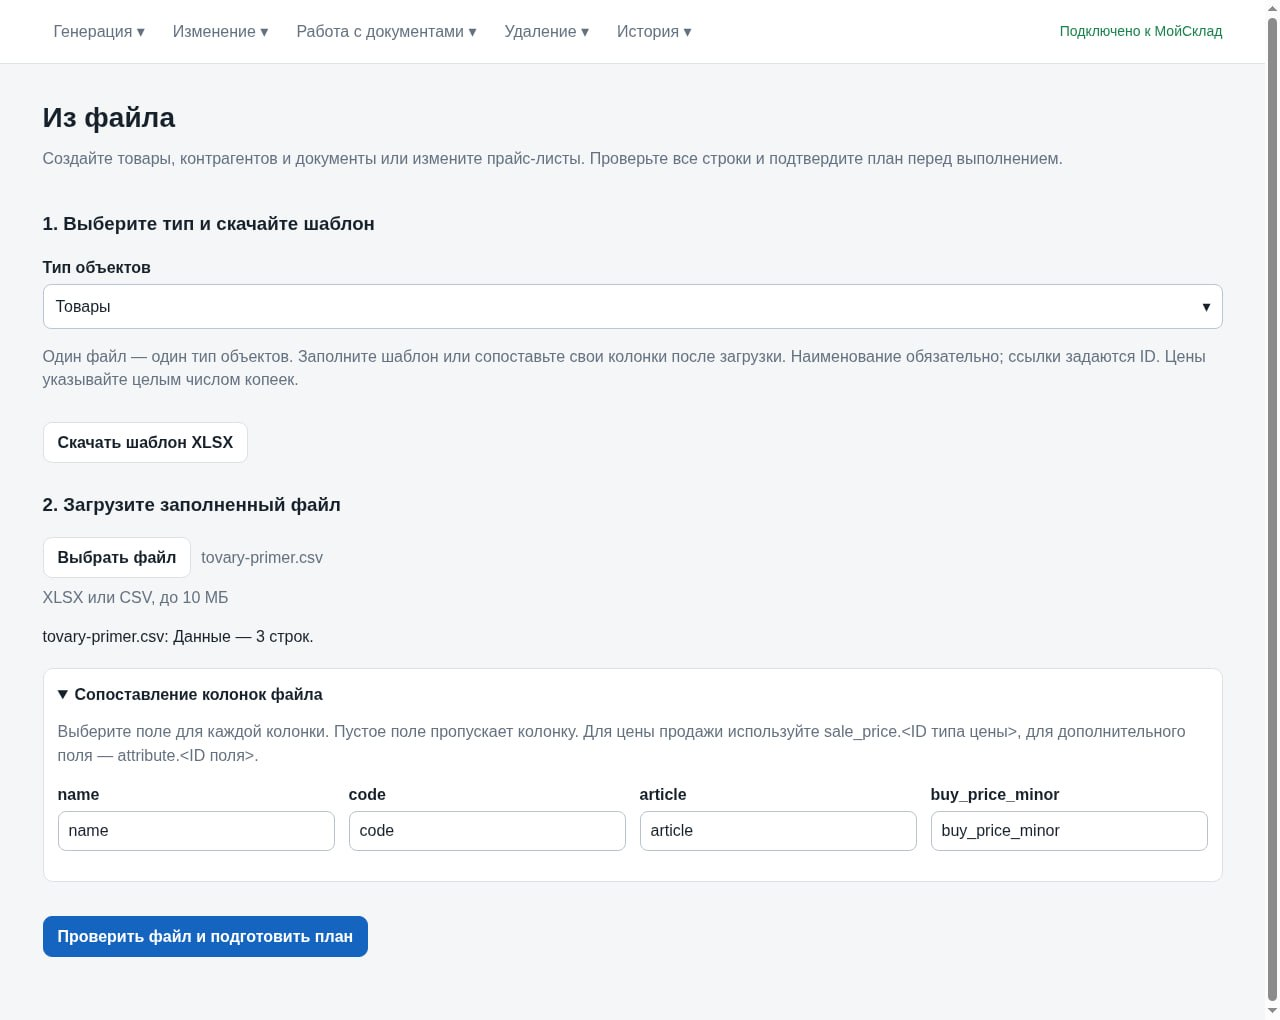
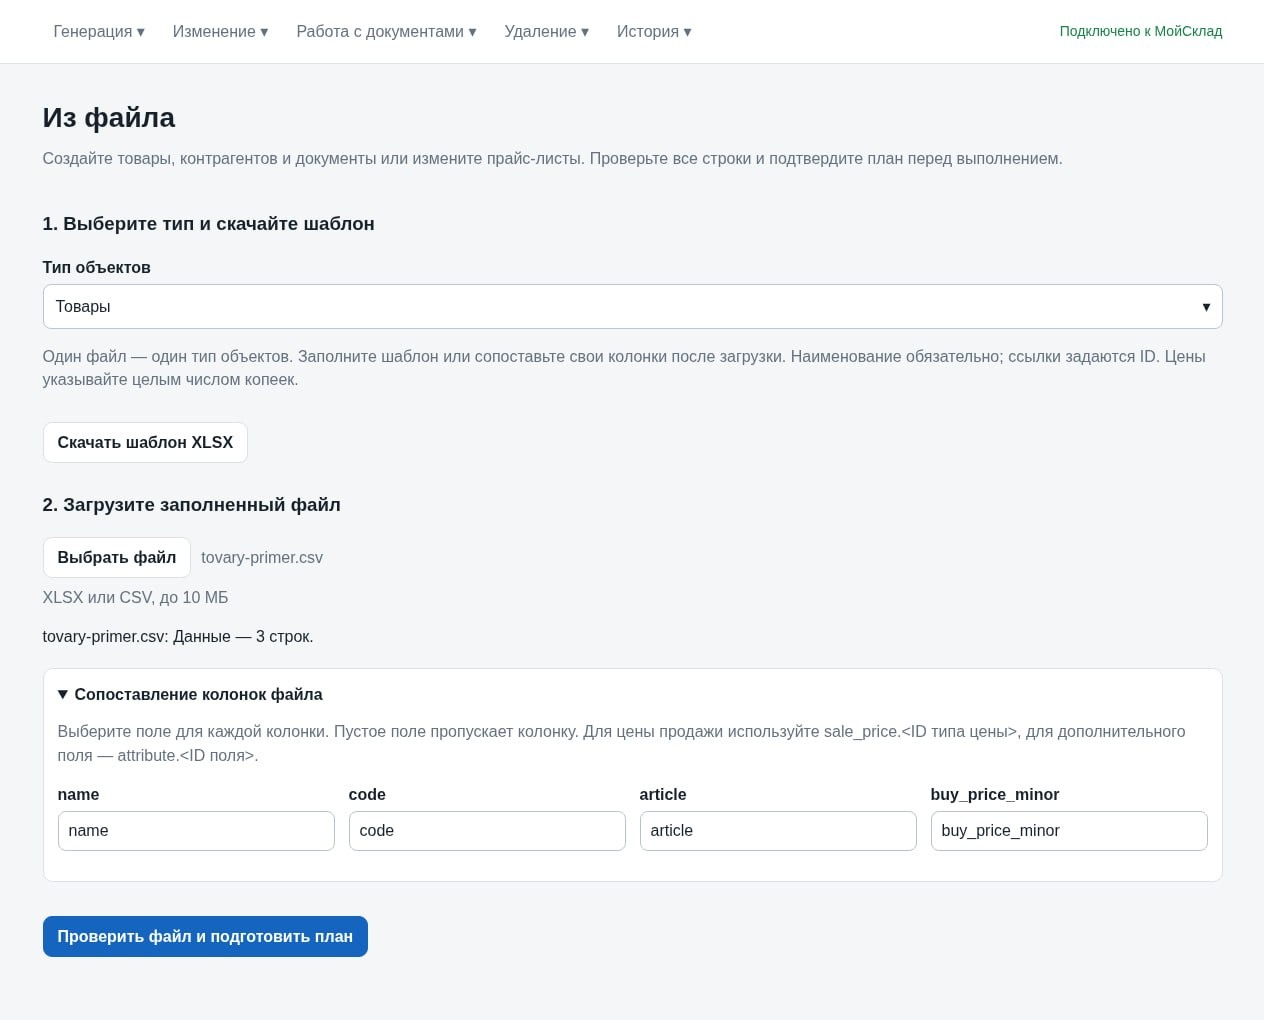
feat: -Добавил изображения

diff --git a/src/sections/product-showcase-section/product-showcase-section.module.scss b/src/sections/product-showcase-section/product-showcase-section.module.scss
@@ -78,16 +78,24 @@
   border: 1px solid #182131;
   border-radius: 24px;
   box-sizing: border-box;
+  color: #10131a;
   display: flex;
   flex-direction: column;
   min-height: 0;
   min-width: 0;
   padding: 32px;
   text-align: left;
+  text-decoration: none;
   transition: border-color 180ms ease;
 
   &:hover {
     border-color: #1765da;
+  }
+
+  &:focus-visible {
+    border-color: #1765da;
+    outline: 2px solid #1765da;
+    outline-offset: 4px;
   }
 }
 
@@ -96,9 +104,7 @@
     transition: transform 260ms cubic-bezier(0.22, 0.61, 0.36, 1);
   }
 
-  &:focus-within {
-    border-color: #1765da;
-
+  &:focus-visible {
     .appTitle {
       transform: translateY(-4px);
     }
@@ -155,14 +161,10 @@
   text-decoration: none;
   transition: background-color 180ms ease, color 180ms ease;
 
-  &:hover {
+  .appProduct:hover &,
+  .appProduct:focus-visible & {
     background: #182131;
     color: #f7f8fa;
-  }
-
-  &:focus-visible {
-    outline: 2px solid #1765da;
-    outline-offset: 4px;
   }
 }
 
@@ -172,6 +174,11 @@
   isolation: isolate;
   overflow: hidden;
   position: relative;
+
+  &:focus-visible {
+    border-color: #4b9cff;
+    outline-color: #4b9cff;
+  }
 
   &::before {
     background-image: radial-gradient(circle, rgba(247, 248, 250, 0.2) 0.75px, transparent 0.95px);
@@ -215,7 +222,7 @@
     transition: transform 260ms cubic-bezier(0.22, 0.61, 0.36, 1);
   }
 
-  &:focus-within {
+  &:focus-visible {
     &::before,
     &::after {
       opacity: 1;
@@ -247,15 +254,12 @@
 .biProduct .productButton {
   border-color: rgba(247, 248, 250, 0.42);
   color: #f7f8fa;
+}
 
-  &:hover {
-    background: #f7f8fa;
-    color: #182131;
-  }
-
-  &:focus-visible {
-    outline-color: #4b9cff;
-  }
+.biProduct:hover .productButton,
+.biProduct:focus-visible .productButton {
+  background: #f7f8fa;
+  color: #182131;
 }
 
 @media (max-width: 1050px) {

diff --git a/src/pages/sitemap.xml.ts b/src/pages/sitemap.xml.ts
@@ -13,6 +13,7 @@ export function GET() {
     { path: 'bitrix24-cleaner/', changefreq: 'monthly', priority: '0.8' },
     { path: 'moysklad-mass-operations/', changefreq: 'monthly', priority: '0.8' },
     { path: 'moysklad-izmenenie-cen/', changefreq: 'monthly', priority: '0.8' },
+    { path: 'moysklad-import/', changefreq: 'monthly', priority: '0.8' },
     { path: 'bi-analitika/', changefreq: 'monthly', priority: '0.8' },
     { path: 'blog/', changefreq: 'weekly', priority: '0.7' },
     { path: 'knowledge-base/', changefreq: 'monthly', priority: '0.8' },

diff --git a/docs/content/moysklad-scenario-screenshots.md b/docs/content/moysklad-scenario-screenshots.md
@@ -1,10 +1,10 @@
 # Скриншоты для страниц сценариев МойСклад
 
-Пять новых страниц готовы для просмотра с заглушками. До проверки скриншотов они имеют `noindex, follow` и не добавлены в sitemap. Страница изменения цен остаётся индексируемой.
+Четыре страницы сценариев пока содержат заглушки. До проверки скриншотов они имеют `noindex, follow` и не добавлены в sitemap. Страницы изменения цен и импорта уже содержат реальные изображения и индексируются.
 
 ## Куда положить файлы
 
-Все девять файлов сохранять в **`src/images/products/moysklad/`** с точными именами из таблицы. Формат — настоящий PNG; не переименовывать JPEG в PNG без конвертации. Общий компонент автоматически заменит заглушки после следующей сборки или перезапуска dev-сервера.
+Недостающие файлы сохранять в **`src/images/products/moysklad/`** с точными именами из таблицы. `import-plan.png` и `import-template.png` уже добавлены. Формат — настоящий PNG; не переименовывать JPEG в PNG без конвертации. Общий компонент автоматически заменит заглушки после следующей сборки или перезапуска dev-сервера.
 
 | Страница | Имя файла | Какой экран нужен | Место на странице |
 | --- | --- | --- | --- |
